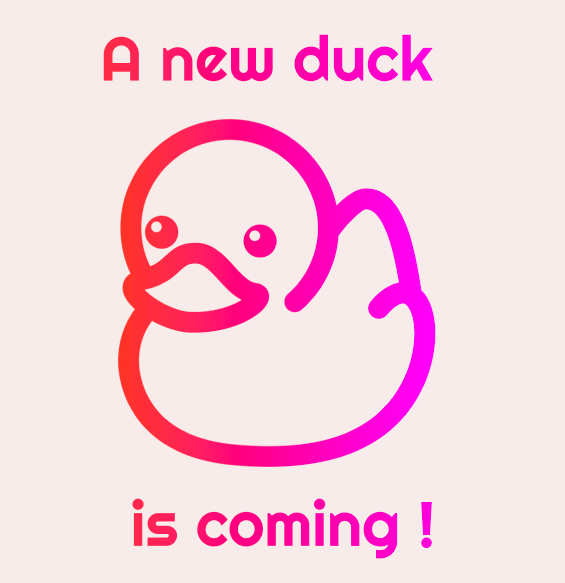
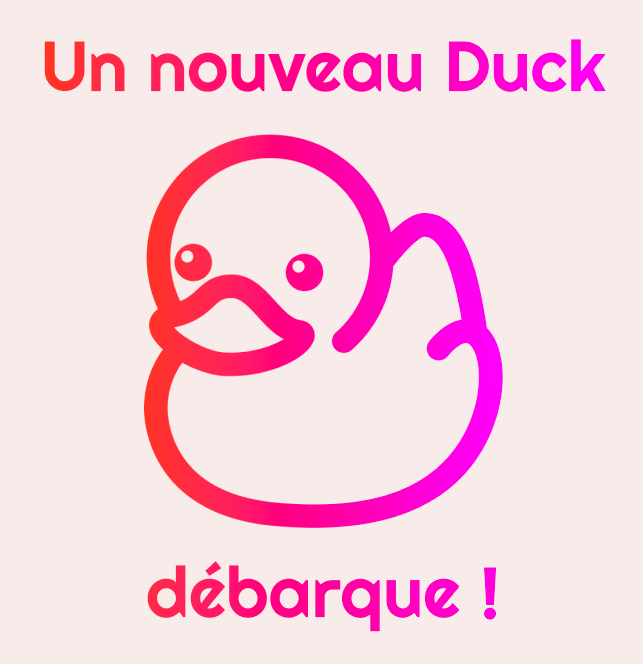
[ADD] home page with sound

diff --git a/app/assets/stylesheets/pages/_home.scss b/app/assets/stylesheets/pages/_home.scss
@@ -1,0 +1,57 @@
+.home-container {
+  display: flex;
+  align-items: center;
+  justify-content: space-around;
+  flex-direction:column;
+  margin-top: 1vw;
+
+  .img-go {
+    width: 20%;
+    height: 20%;
+  }
+  h1{
+    @include prymary-gradient-background();
+    -webkit-background-clip: text;
+    -webkit-text-fill-color: transparent;
+    font-family: $headers-font;
+    font-size: 3em;
+    font-weight: 700;
+  }
+  .btn-go{
+    @include link();
+    background-color: $primary-color();
+    box-shadow: $btn-shadow;
+    border-radius: 2em;
+    padding: 1em 1em 1em 1em;
+    width: 20%;
+    right: 40%;
+    text-align: center;
+    cursor: pointer;
+    color: white;
+    font-weight: 700;
+  }
+  .image-dev{
+    display: flex;
+    justify-content: space-between;
+    margin-top: 50px;
+    margin-left: 50px;
+    margin-right: 50px;
+  }
+
+  .img-developpeur{
+    width: 16%;
+    height: 16%;
+    border-radius: 50%;
+  }
+
+  .info-dev{
+    display: flex;
+    justify-content: space-between;
+    margin: 10px;
+  }
+
+  p{
+    padding-right: 20px;
+    padding-left: 15px;
+  }
+}

diff --git a/app/assets/config/manifest.js b/app/assets/config/manifest.js
@@ -2,3 +2,4 @@
 //= link_directory ../stylesheets .css
 //= link_tree ../../javascript .js
 //= link_tree ../../../vendor/javascript .js
+//= link Duck_Quack.mp3

diff --git a/config/application.rb b/config/application.rb
@@ -10,7 +10,7 @@ module DuckBnB
   class Application < Rails::Application
     # Initialize configuration defaults for originally generated Rails version.
     config.load_defaults 7.0
-
+    config.assets.precompile << 'audios/*'
     # Configuration for the application, engines, and railties goes here.
     #
     # These settings can be overridden in specific environments using the files

diff --git a/app/controllers/pages_controller.rb b/app/controllers/pages_controller.rb
@@ -1,6 +1,6 @@
 class PagesController < ApplicationController
-
   def home
+    @hide_navbar = true
+    @hide_footer = true
   end
-
 end

diff --git a/app/controllers/ducks_controller.rb b/app/controllers/ducks_controller.rb
@@ -23,7 +23,6 @@ class DucksController < ApplicationController
   end
 
   def edit
-
   end
 
   def update
